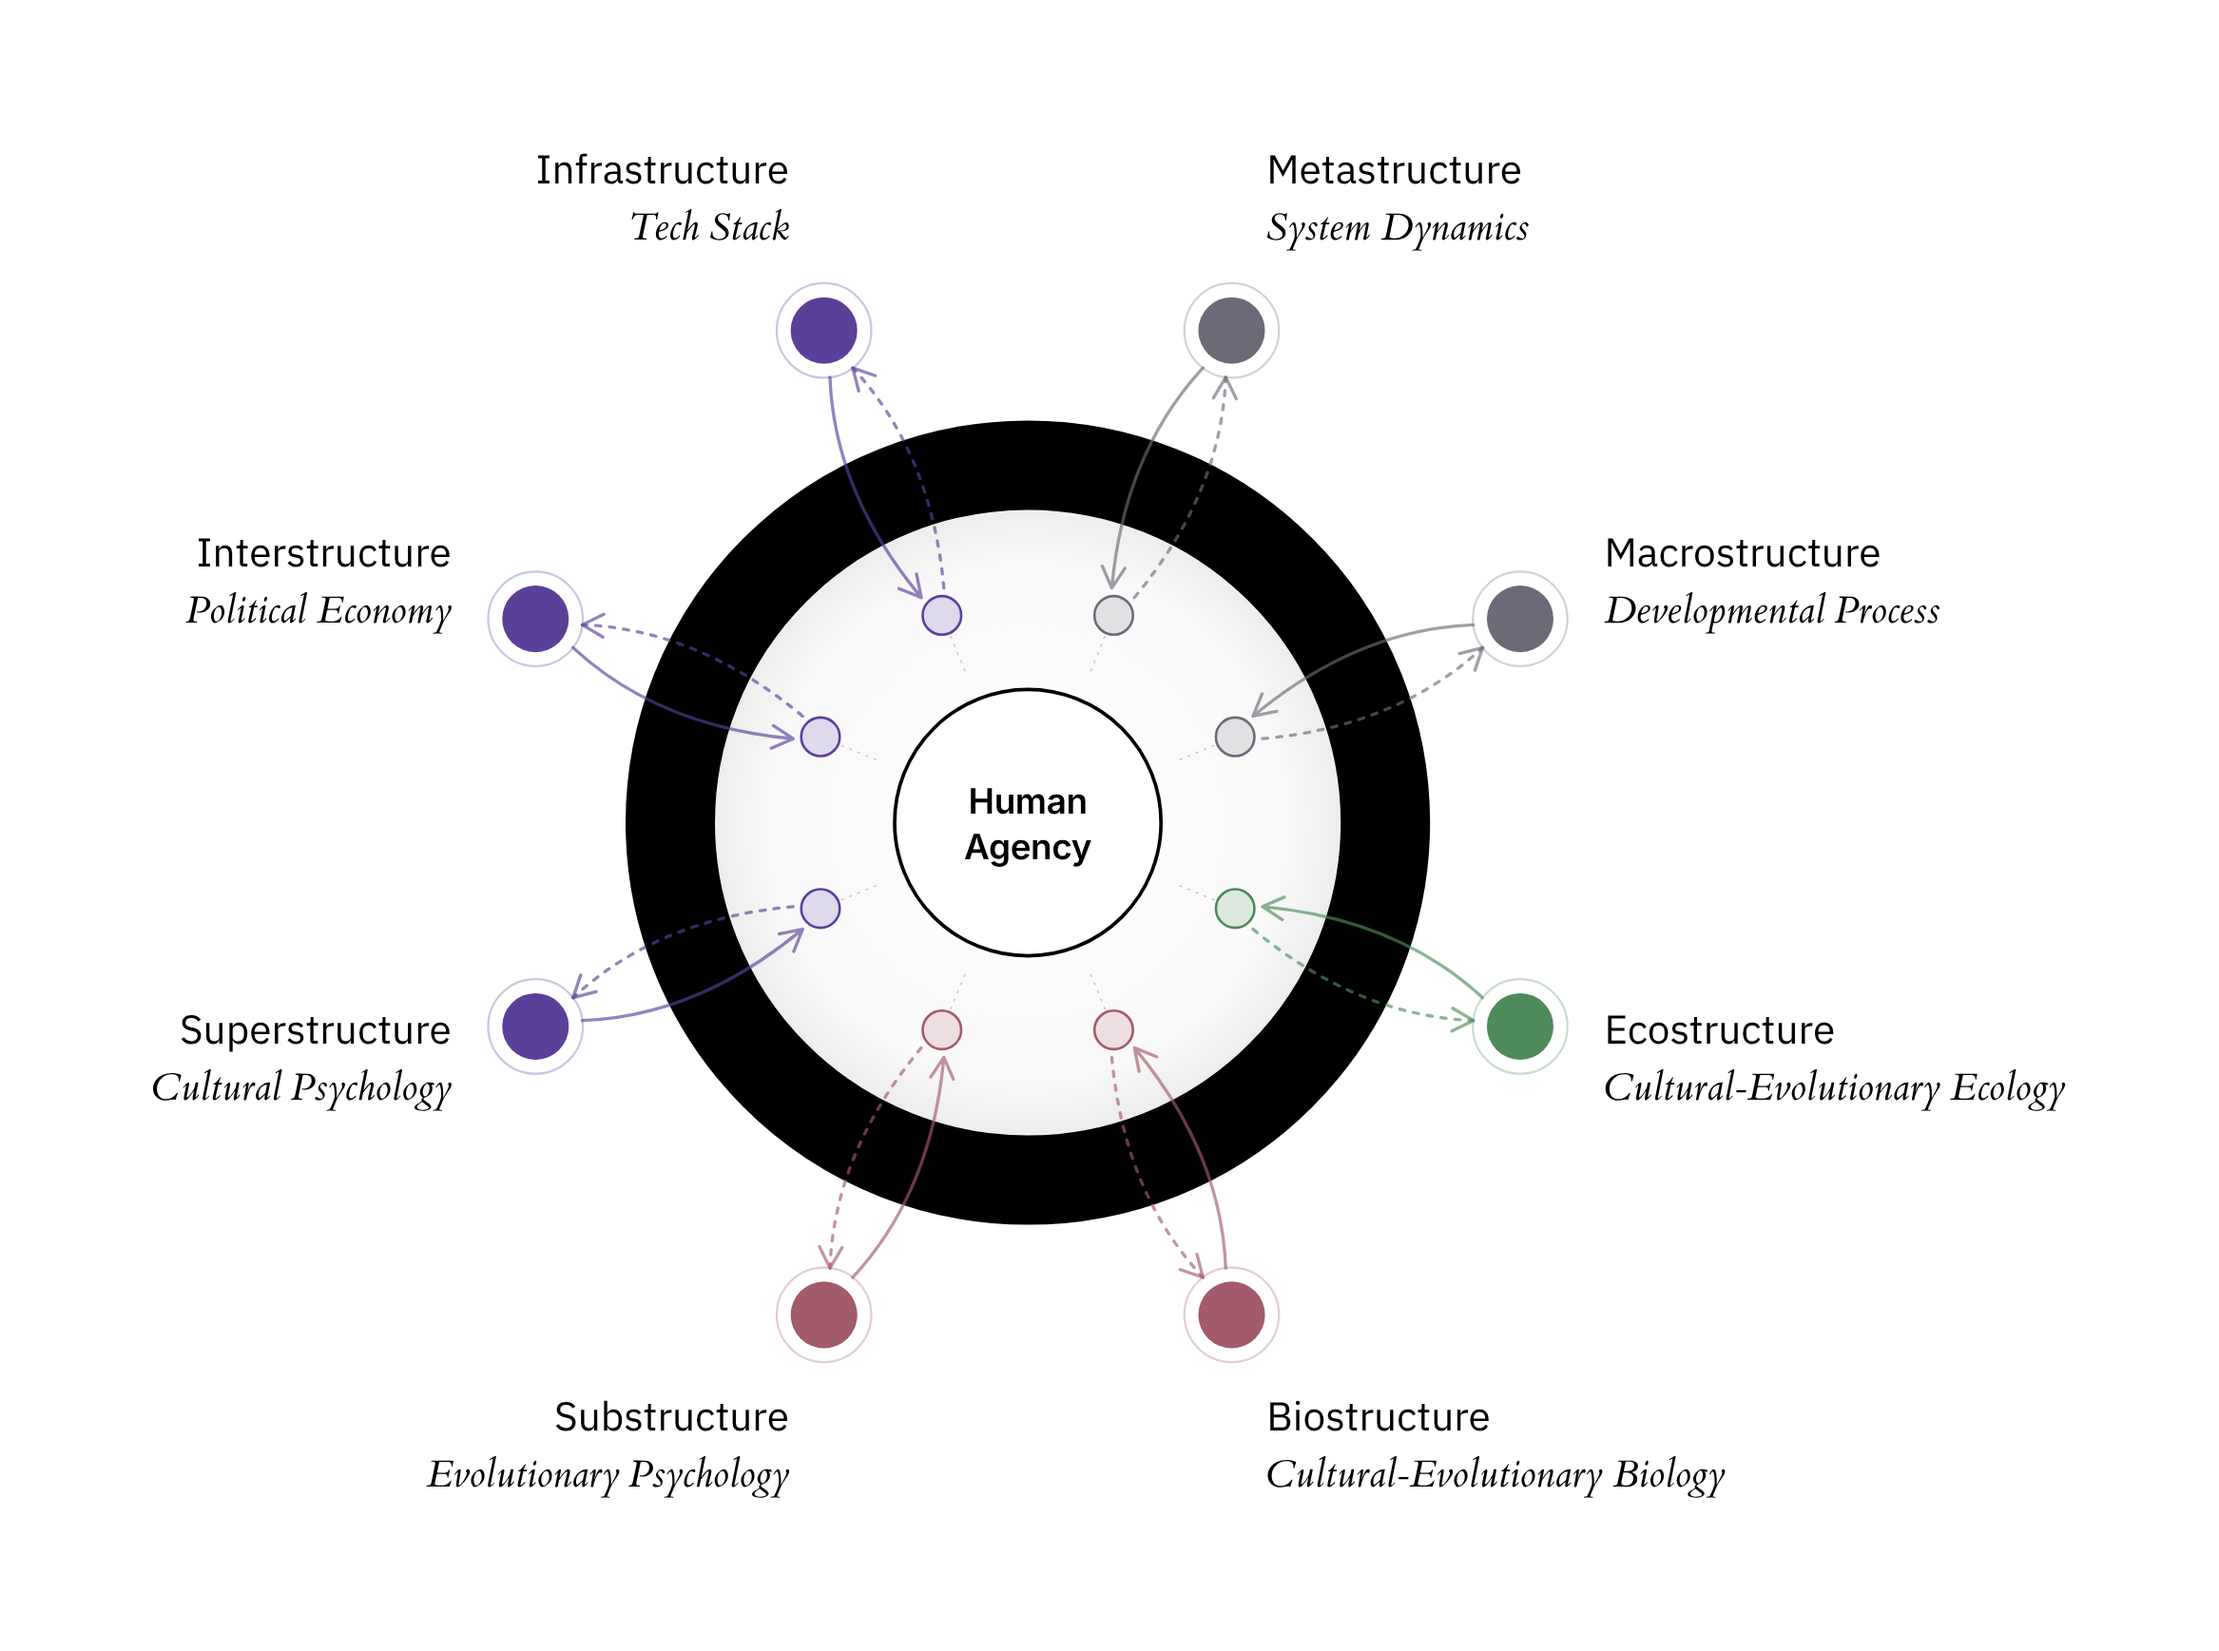
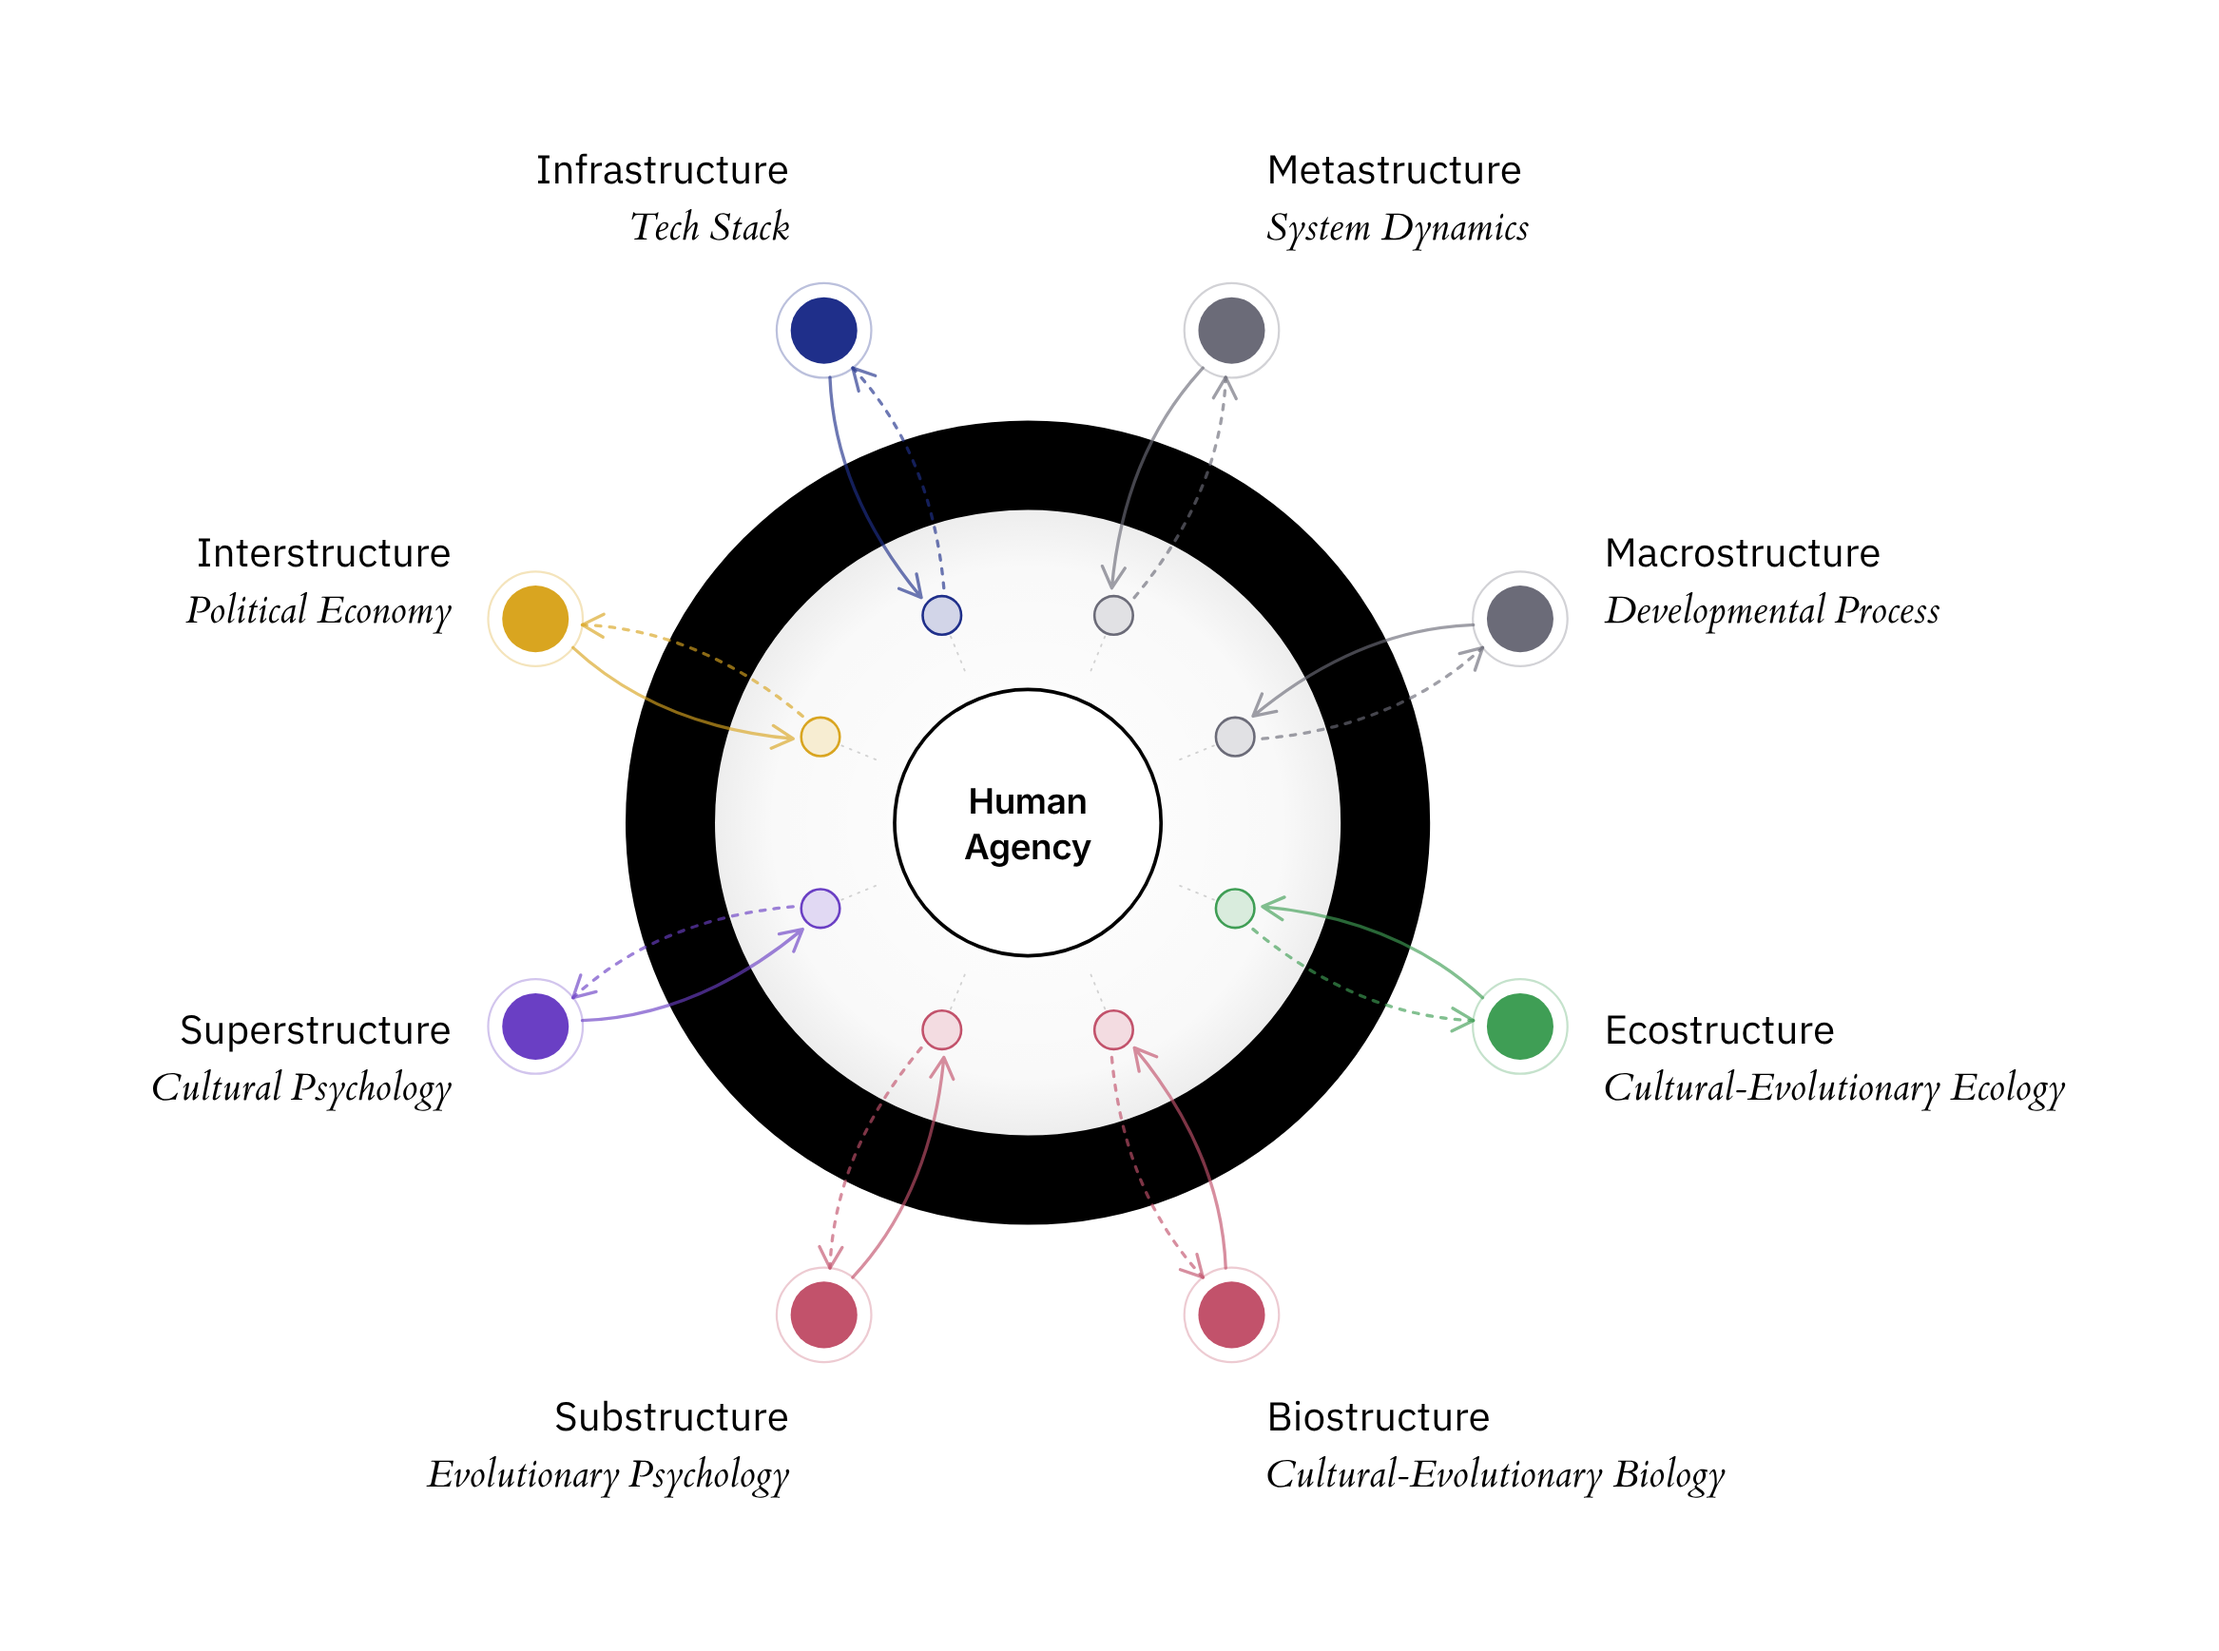
Exo-Endo Structure: CEM colours
Claude-Session: https://claude.ai/code/session_01LgHoU9QwZ5ZurXZhgzwbWe

diff --git a/diagram/index.html b/diagram/index.html
@@ -3953,7 +3953,7 @@
     </section>
 
     <section class="exoendo-view" aria-label="Exo-Endo Structure">
-    <div class="model-save-row"><a class="model-save" href="../assets/downloads/exo-endo-structure.png?v=8eff2ff0" download="Exo-Endo Structure.png"><svg viewBox="0 0 24 24" fill="none" stroke="currentColor" stroke-width="1.6" stroke-linecap="round" stroke-linejoin="round" aria-hidden="true"><path d="M4 15v3.5A1.5 1.5 0 0 0 5.5 20h13a1.5 1.5 0 0 0 1.5-1.5V15"/><g class="arrow"><path d="M12 4v11"/><path d="M8 11l4 4 4-4"/></g></svg><span>Download diagram</span></a></div>
+    <div class="model-save-row"><a class="model-save" href="../assets/downloads/exo-endo-structure.png?v=fc733338" download="Exo-Endo Structure.png"><svg viewBox="0 0 24 24" fill="none" stroke="currentColor" stroke-width="1.6" stroke-linecap="round" stroke-linejoin="round" aria-hidden="true"><path d="M4 15v3.5A1.5 1.5 0 0 0 5.5 20h13a1.5 1.5 0 0 0 1.5-1.5V15"/><g class="arrow"><path d="M12 4v11"/><path d="M8 11l4 4 4-4"/></g></svg><span>Download diagram</span></a></div>
     <div class="md-agency">
       <div class="md-agency-grid">
         <div class="md-agency-scene">
@@ -4560,9 +4560,9 @@
         var C = 380, RA = 76, RIN = 128, RM = 204, ROUT = 304, RL = 356;
         var SEGS = [
           ['metastructure', 'Metastructure', '#6b6b78'], ['macrostructure', 'Macrostructure', '#6b6b78'],
-          ['ecostructure', 'Ecostructure', '#4e8a5a'], ['biostructure', 'Biostructure', '#a35a6a'],
-          ['substructure', 'Substructure', '#a35a6a'], ['superstructure', 'Superstructure', '#5b3f99'],
-          ['interstructure', 'Interstructure', '#5b3f99'], ['infrastructure', 'Infrastructure', '#5b3f99']
+          ['ecostructure', 'Ecostructure', '#3f9e55'], ['biostructure', 'Biostructure', '#c2526b'],
+          ['substructure', 'Substructure', '#c2526b'], ['superstructure', 'Superstructure', '#6a3fc4'],
+          ['interstructure', 'Interstructure', '#d9a520'], ['infrastructure', 'Infrastructure', '#1f2f8a']
         ];
         var ALT = { infrastructure: 'Tech Stack', interstructure: 'Political Economy', superstructure: 'Cultural Psychology', substructure: 'Evolutionary Psychology', biostructure: 'Cultural-Evolutionary Biology', ecostructure: 'Cultural-Evolutionary Ecology', metastructure: 'System Dynamics', macrostructure: 'Developmental Process' };
         var rad = Math.PI / 180;
